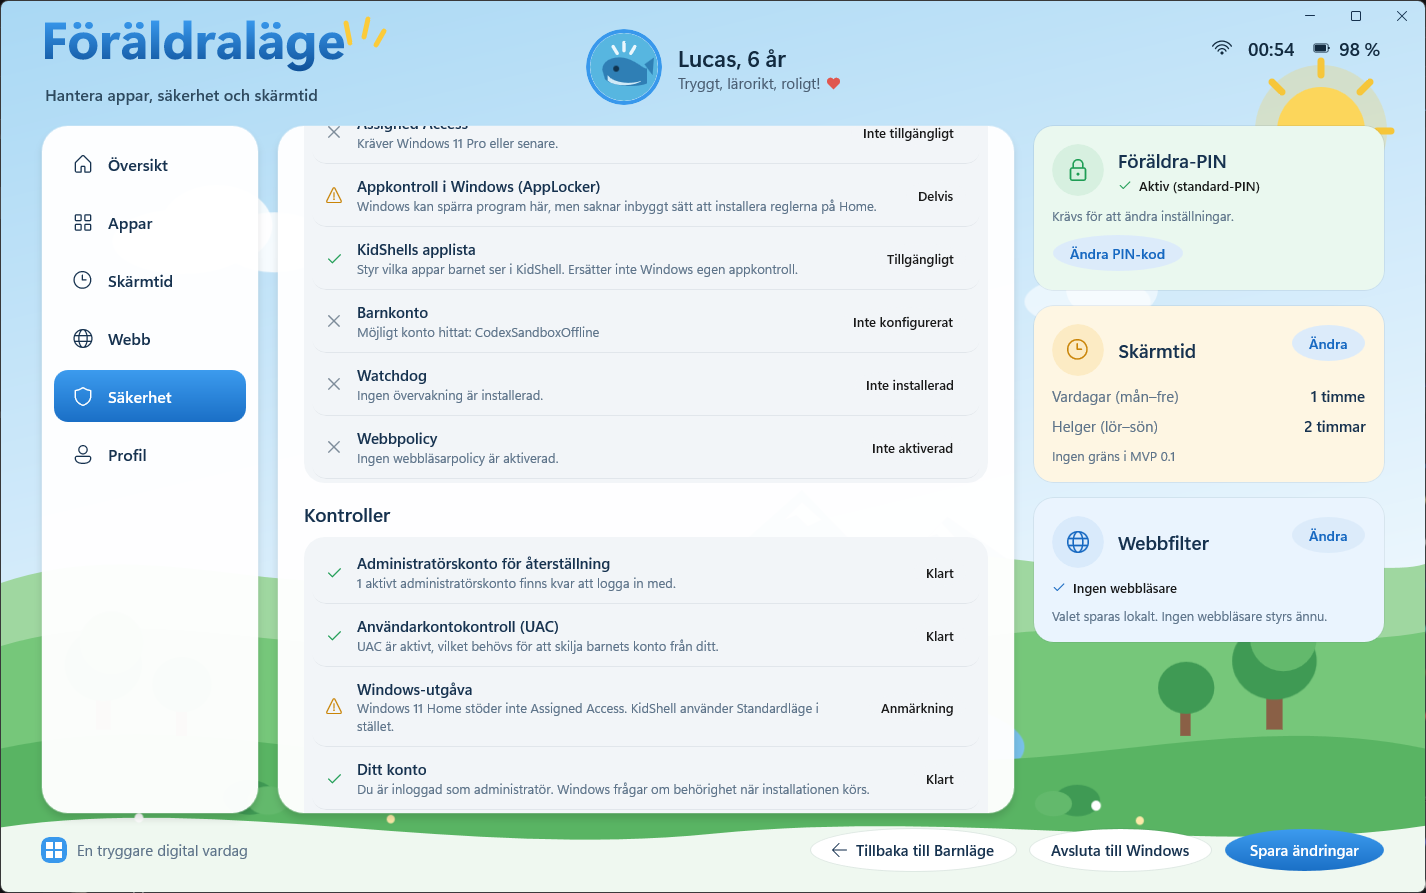
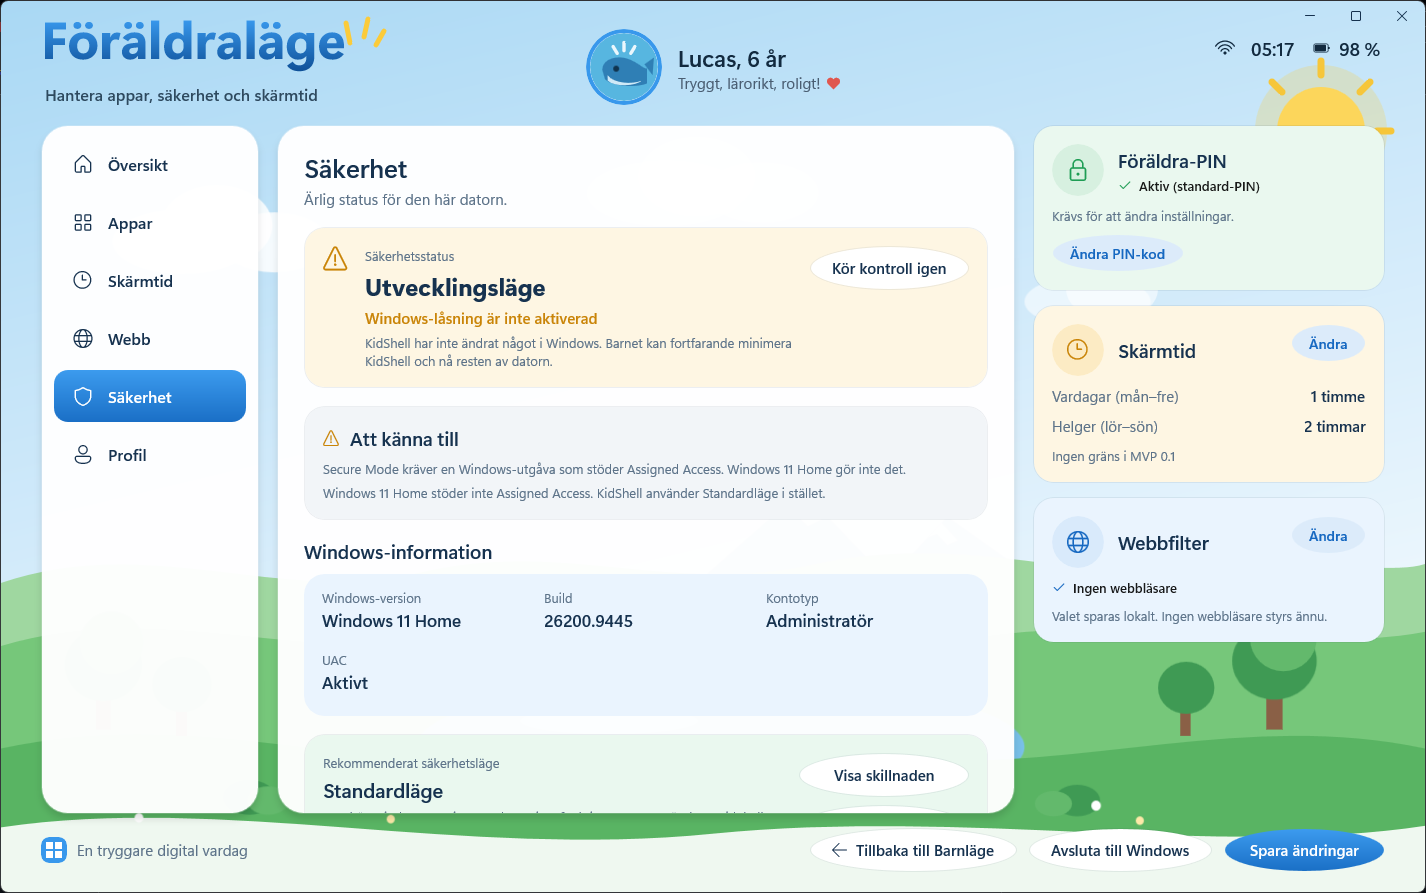
fix: guard packaged app discovery on older Windows builds
GetAppListEntries requires build 19041, but KidShell's
TargetPlatformMinVersion is 17763. On a machine between the two the
packaged scanner would have thrown rather than simply finding nothing.

It now returns an empty list below 19041, so the Start Menu and registry
scanners still work and the Add app screen still opens. Describe() is
annotated with the platform it needs so the analyser can see the guard.

Caught by CA1416 on a clean rebuild; the solution now builds with zero
warnings.

Also publishes the current screenshots.

WINDOWS LOCKDOWN STATUS: NOT ENABLED.

diff --git a/src/KidShell.App/Services/Apps/PackagedApplicationScanner.cs b/src/KidShell.App/Services/Apps/PackagedApplicationScanner.cs
@@ -27,7 +27,10 @@ public sealed class PackagedApplicationScanner : IApplicationScanner
 
     public Task<IReadOnlyList<DiscoveredApplication>> ScanAsync(CancellationToken cancellationToken = default)
     {
-        if (!OperatingSystem.IsWindows())
+        // GetAppListEntries needs build 19041. KidShell's minimum platform is
+        // 17763, so on an older machine this scanner simply finds nothing
+        // rather than throwing - the other scanners still work.
+        if (!OperatingSystem.IsWindowsVersionAtLeast(10, 0, 19041))
         {
             return Task.FromResult<IReadOnlyList<DiscoveredApplication>>([]);
         }
@@ -66,6 +69,7 @@ public sealed class PackagedApplicationScanner : IApplicationScanner
         return Task.FromResult<IReadOnlyList<DiscoveredApplication>>(results);
     }
 
+    [System.Runtime.Versioning.SupportedOSPlatform("windows10.0.19041.0")]
     private static void Describe(Package package, List<DiscoveredApplication> results)
     {
         // Framework packages and resource packages are dependencies, not
